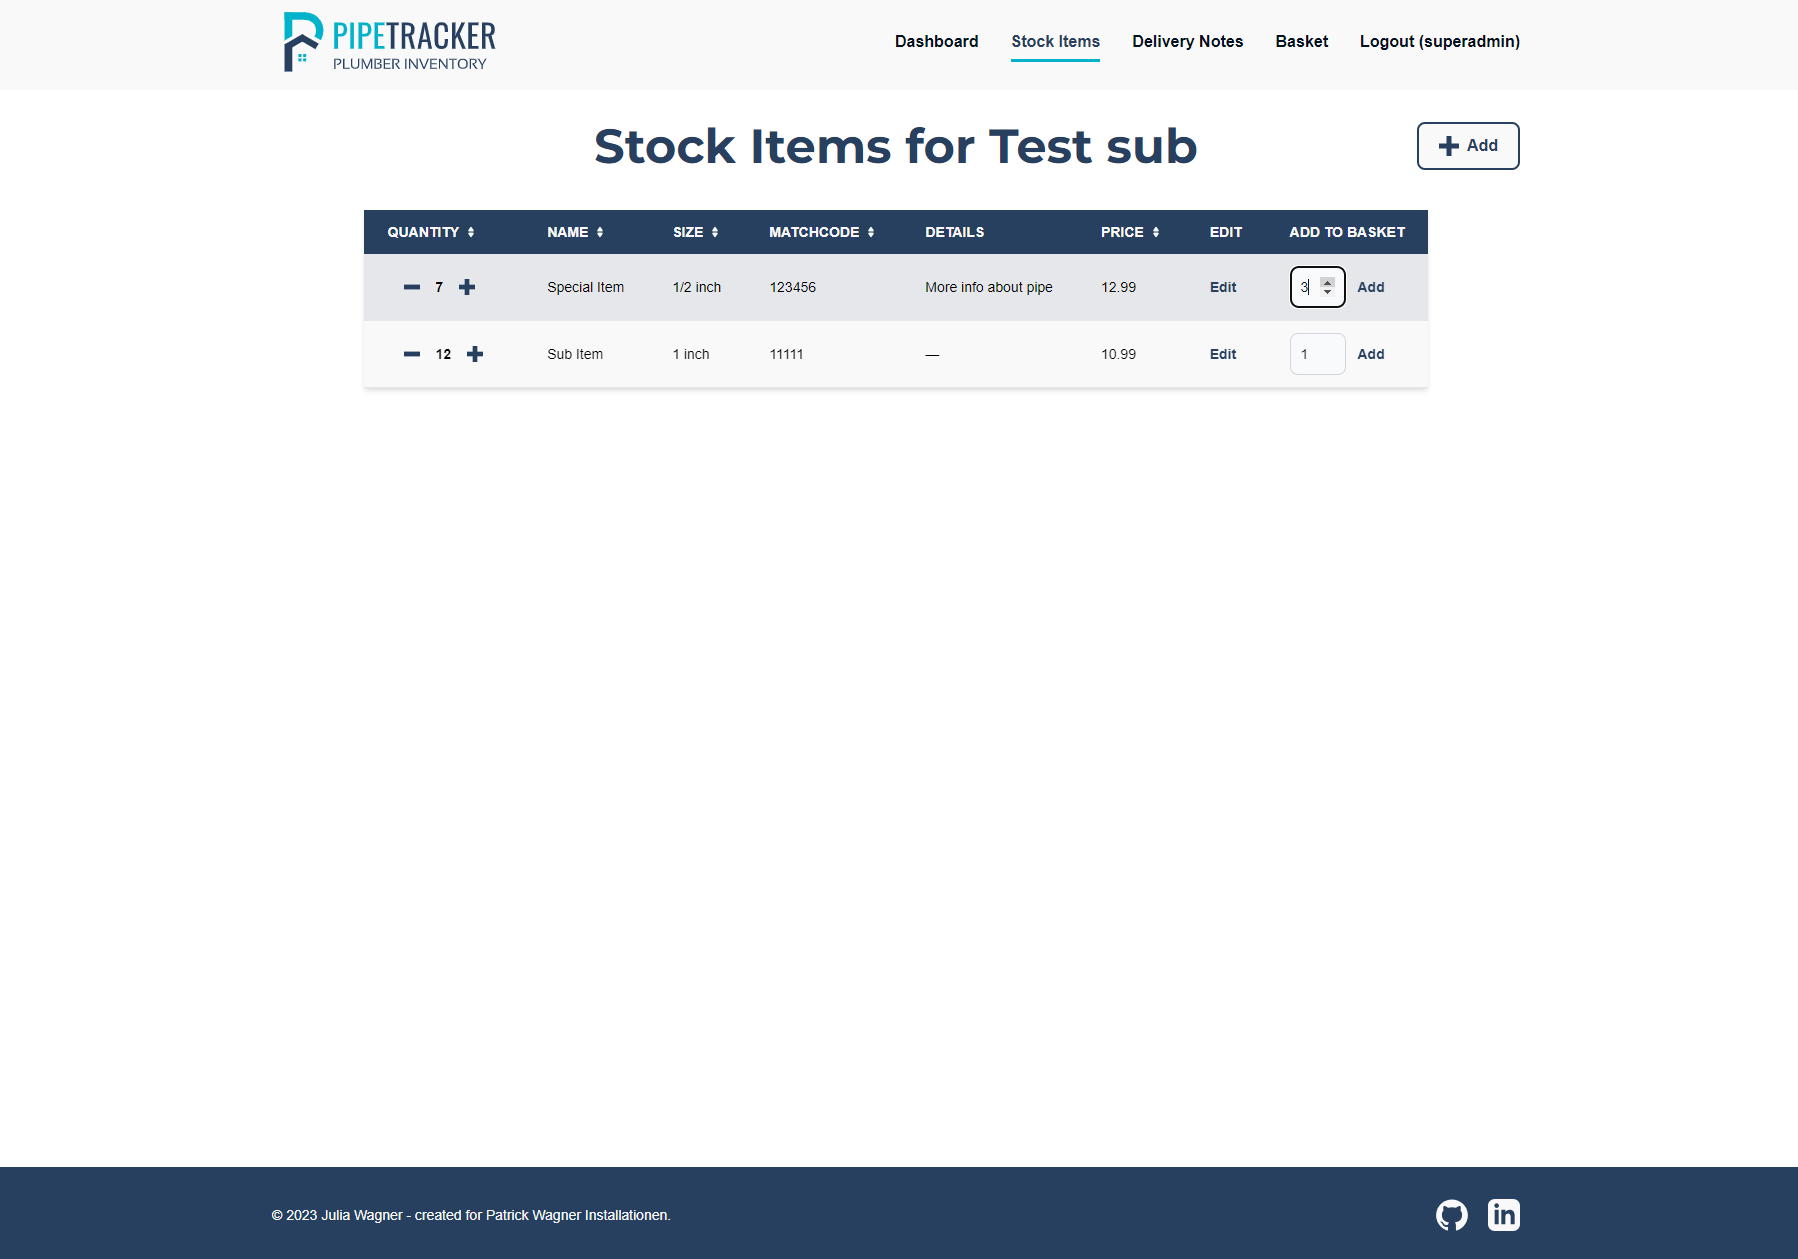
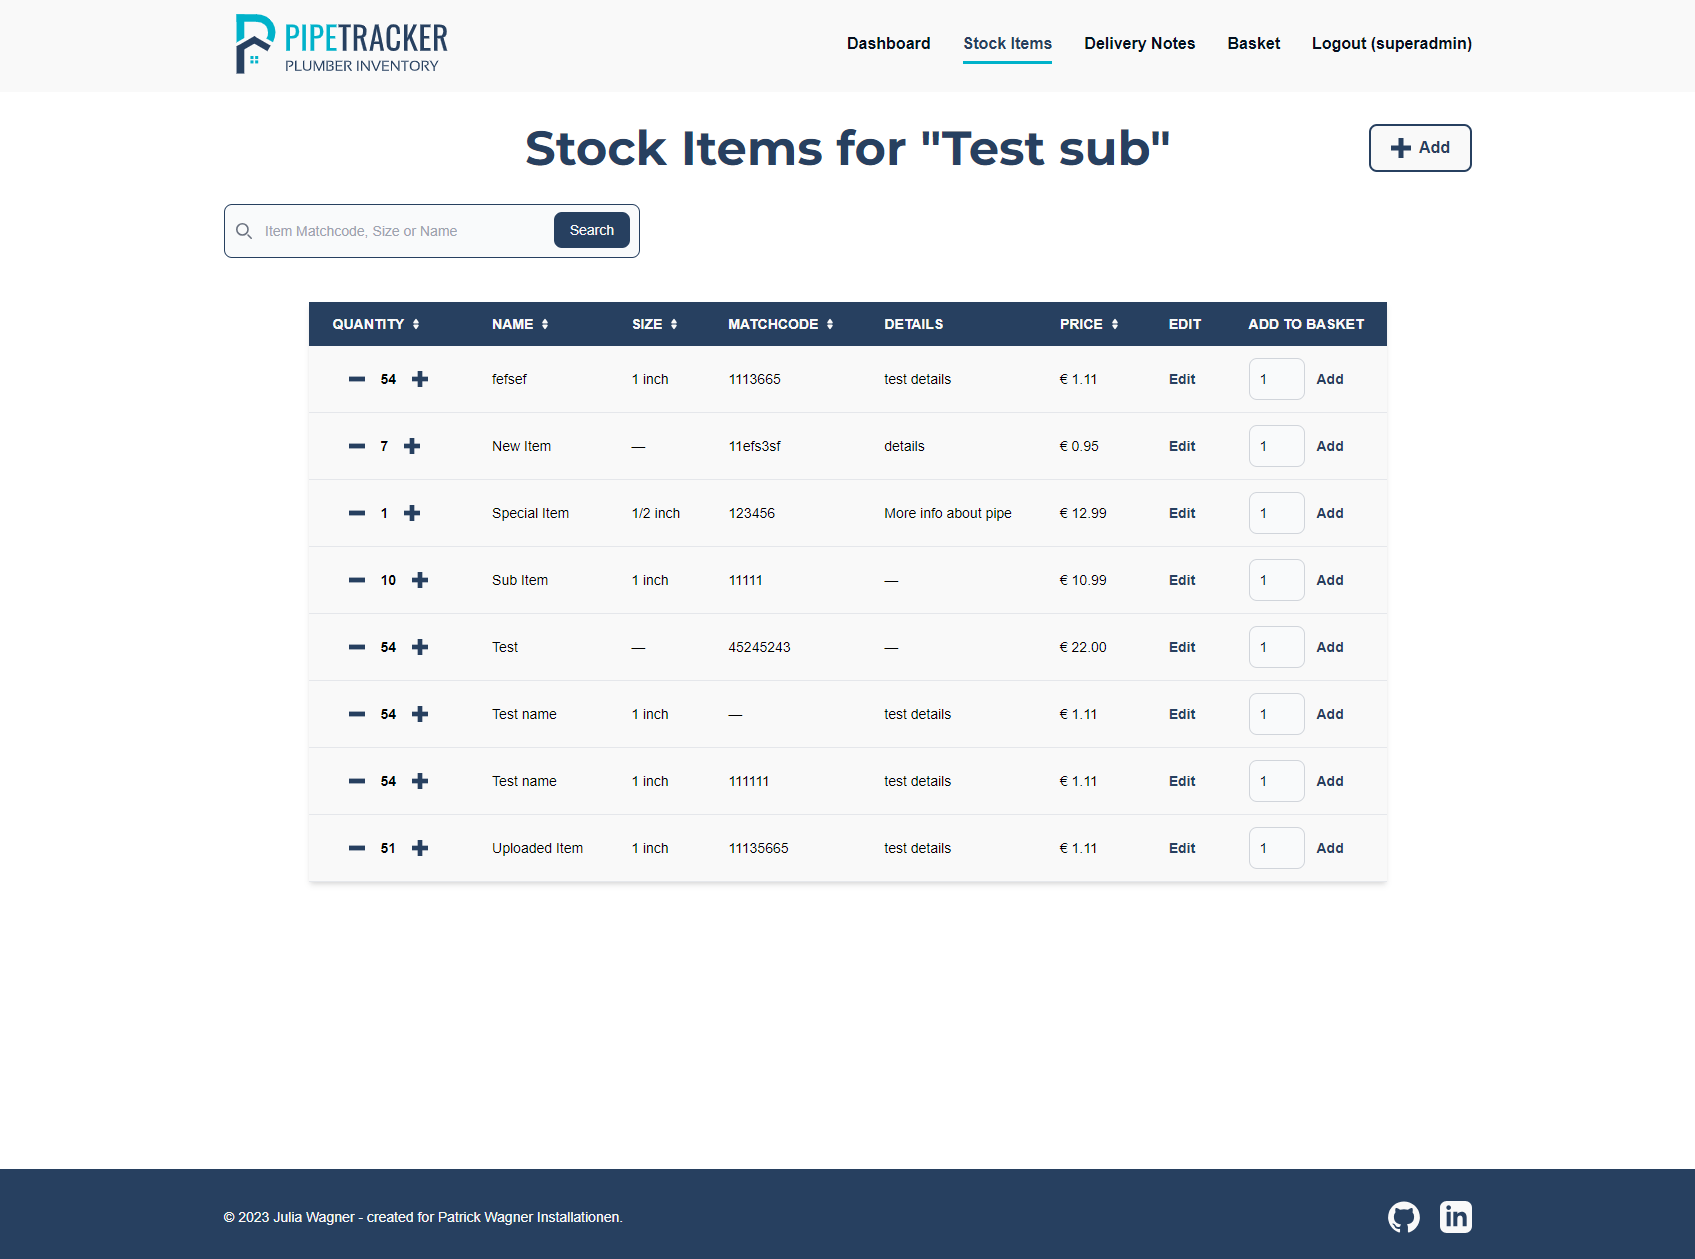
doc: add searchbar feature to readme

diff --git a/README.md b/README.md
@@ -282,6 +282,11 @@ The messages can be closed using the icon, after 4 seconds they are closed autom
 
 ## **Stock Items and Categories**
 
+Stock items are grouped into categories, to list the items, the user must first choose a category. The search bar is an alternative to quickly find a specific item. The *matchcode*, *size* or *name* of the stock item can be entered and all matching results are shown in a table, using the same template as the normal stock items table.
+
+![Stock Items search results](docs/screenshots/items_search.png)\
+*Stock Items search results (tablet)*
+
 ### **Categories**
 
 After clicking **Stock Items** in the menu, all available categories are shown as cards. They can be opened, edited or deleted.
